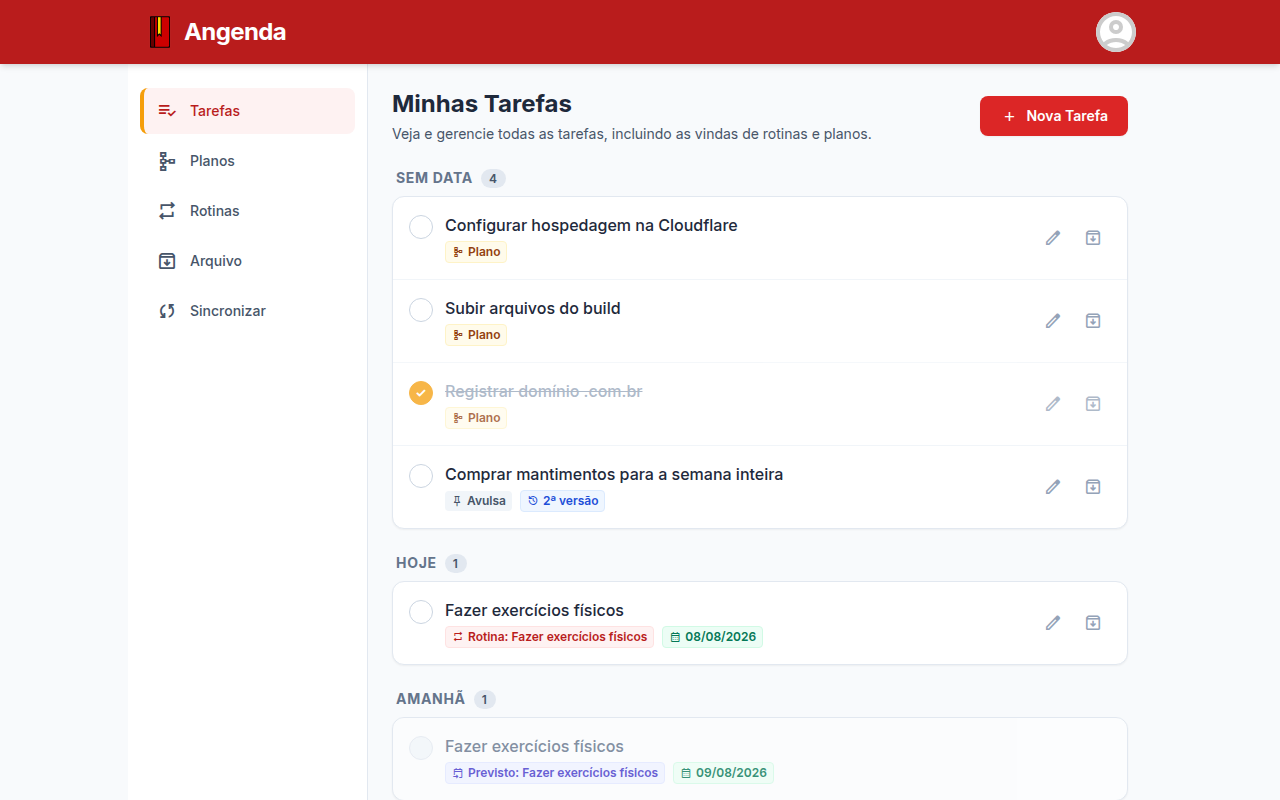
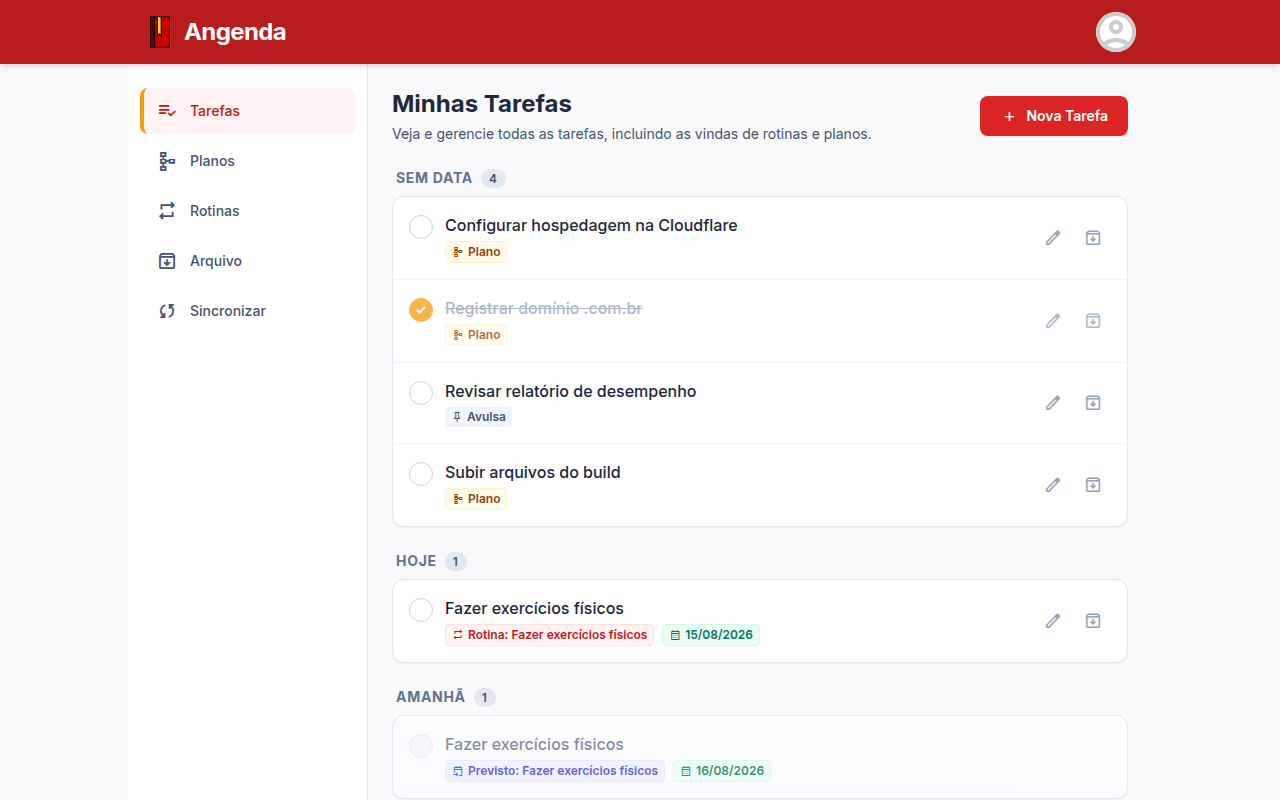
feat: adicionar simulação de data para testes e atualizar imagens de captura

diff --git a/testes/páginas.js b/testes/páginas.js
@@ -7,6 +7,9 @@ test('Populate data and generate screenshots for all screens', async ({ page }) 
   page.on('console', msg => console.log('PAGE LOG:', msg.text()));
   page.on('pageerror', err => console.error('PAGE ERROR:', err.stack || err.message));
 
+  // Mock the Date object to ensure tests are deterministic
+  await page.addInitScript({ path: path.join(__dirname, 'simulações', 'date.js') });
+
   // Viewports configurations
   const viewports = {
     horizontal: { width: 1280, height: 800 },

diff --git a/testes/simulações/date.js b/testes/simulações/date.js
@@ -1,0 +1,23 @@
+// testes/simulações/date.js
+const FIXED_TIMESTAMP = new Date('2026-08-15T12:00:00Z').getTime();
+
+const OriginalDate = Date;
+
+class MockDate extends OriginalDate {
+  constructor(...args) {
+    if (args.length === 0) {
+      super(FIXED_TIMESTAMP);
+    } else {
+      super(...args);
+    }
+  }
+
+  static now() {
+    return FIXED_TIMESTAMP;
+  }
+}
+
+// Ensure instanceof works
+MockDate.prototype = OriginalDate.prototype;
+
+window.Date = MockDate;
